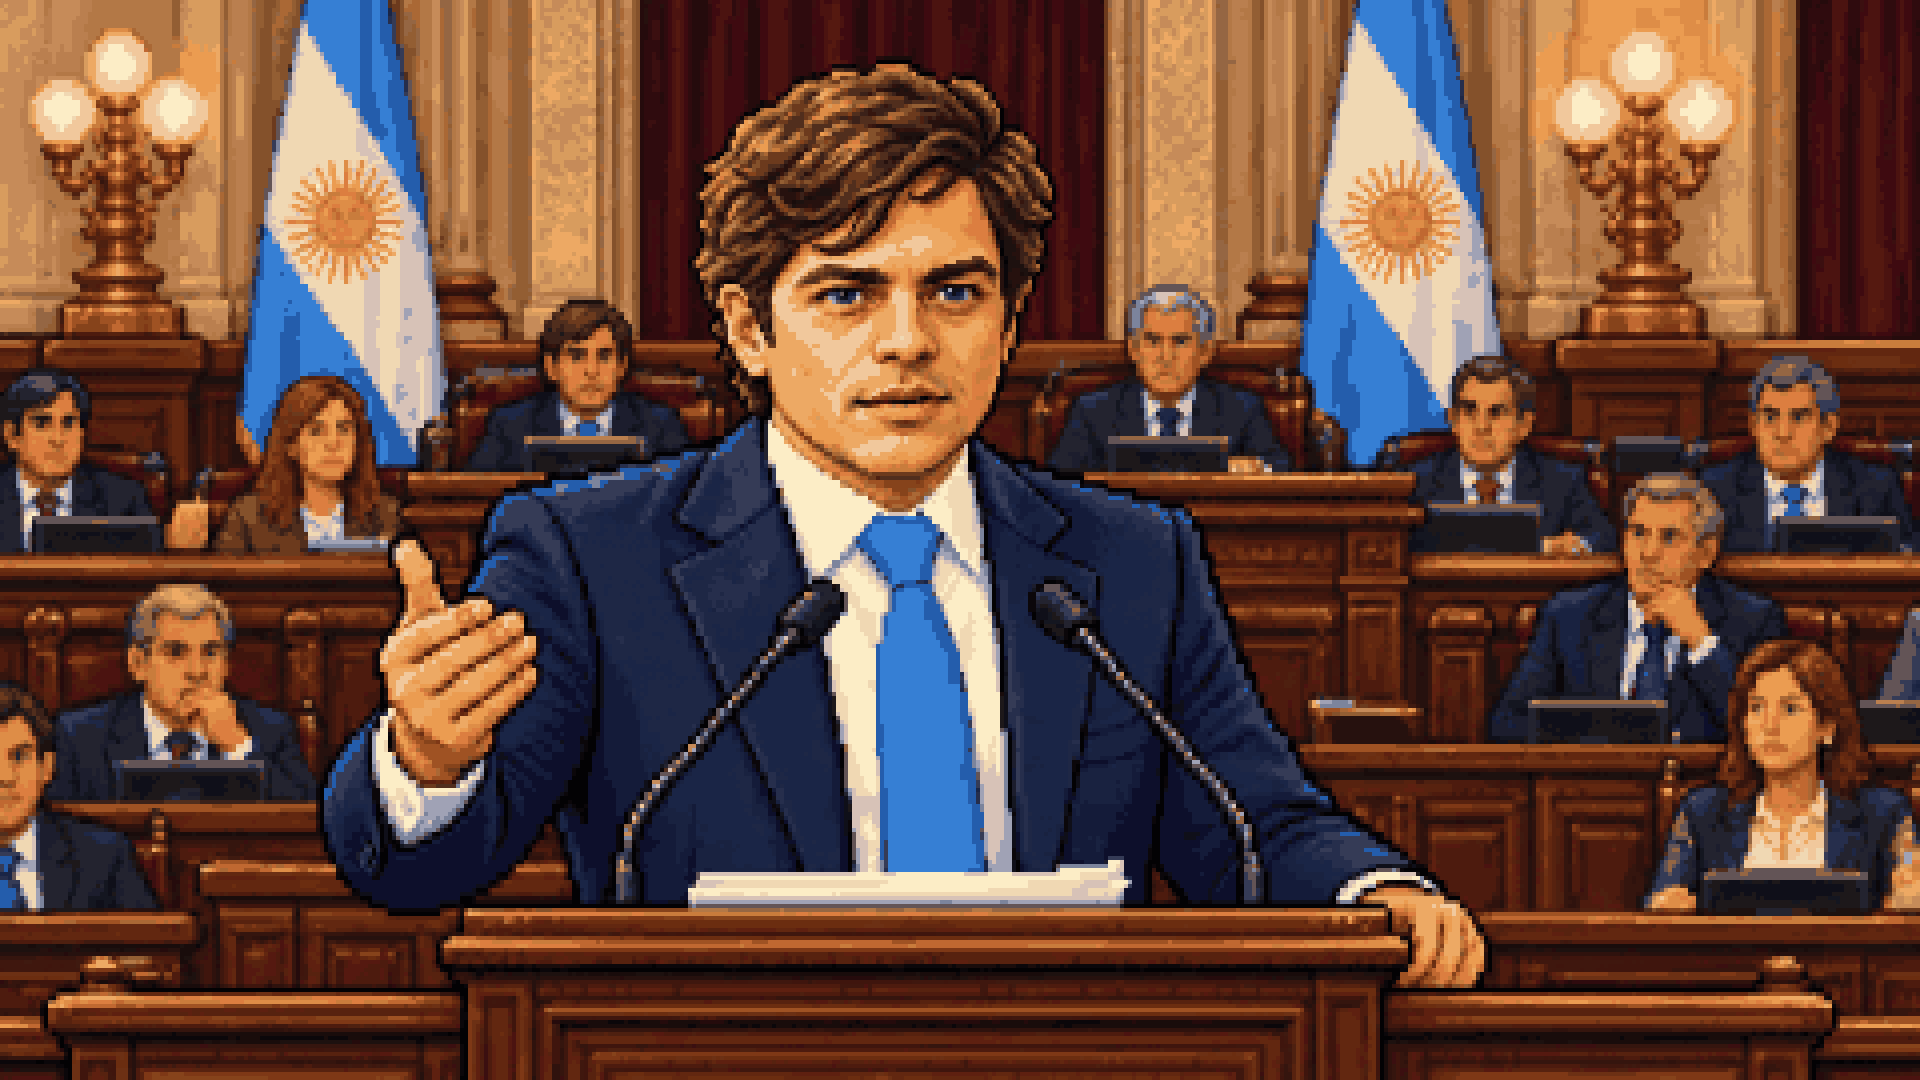
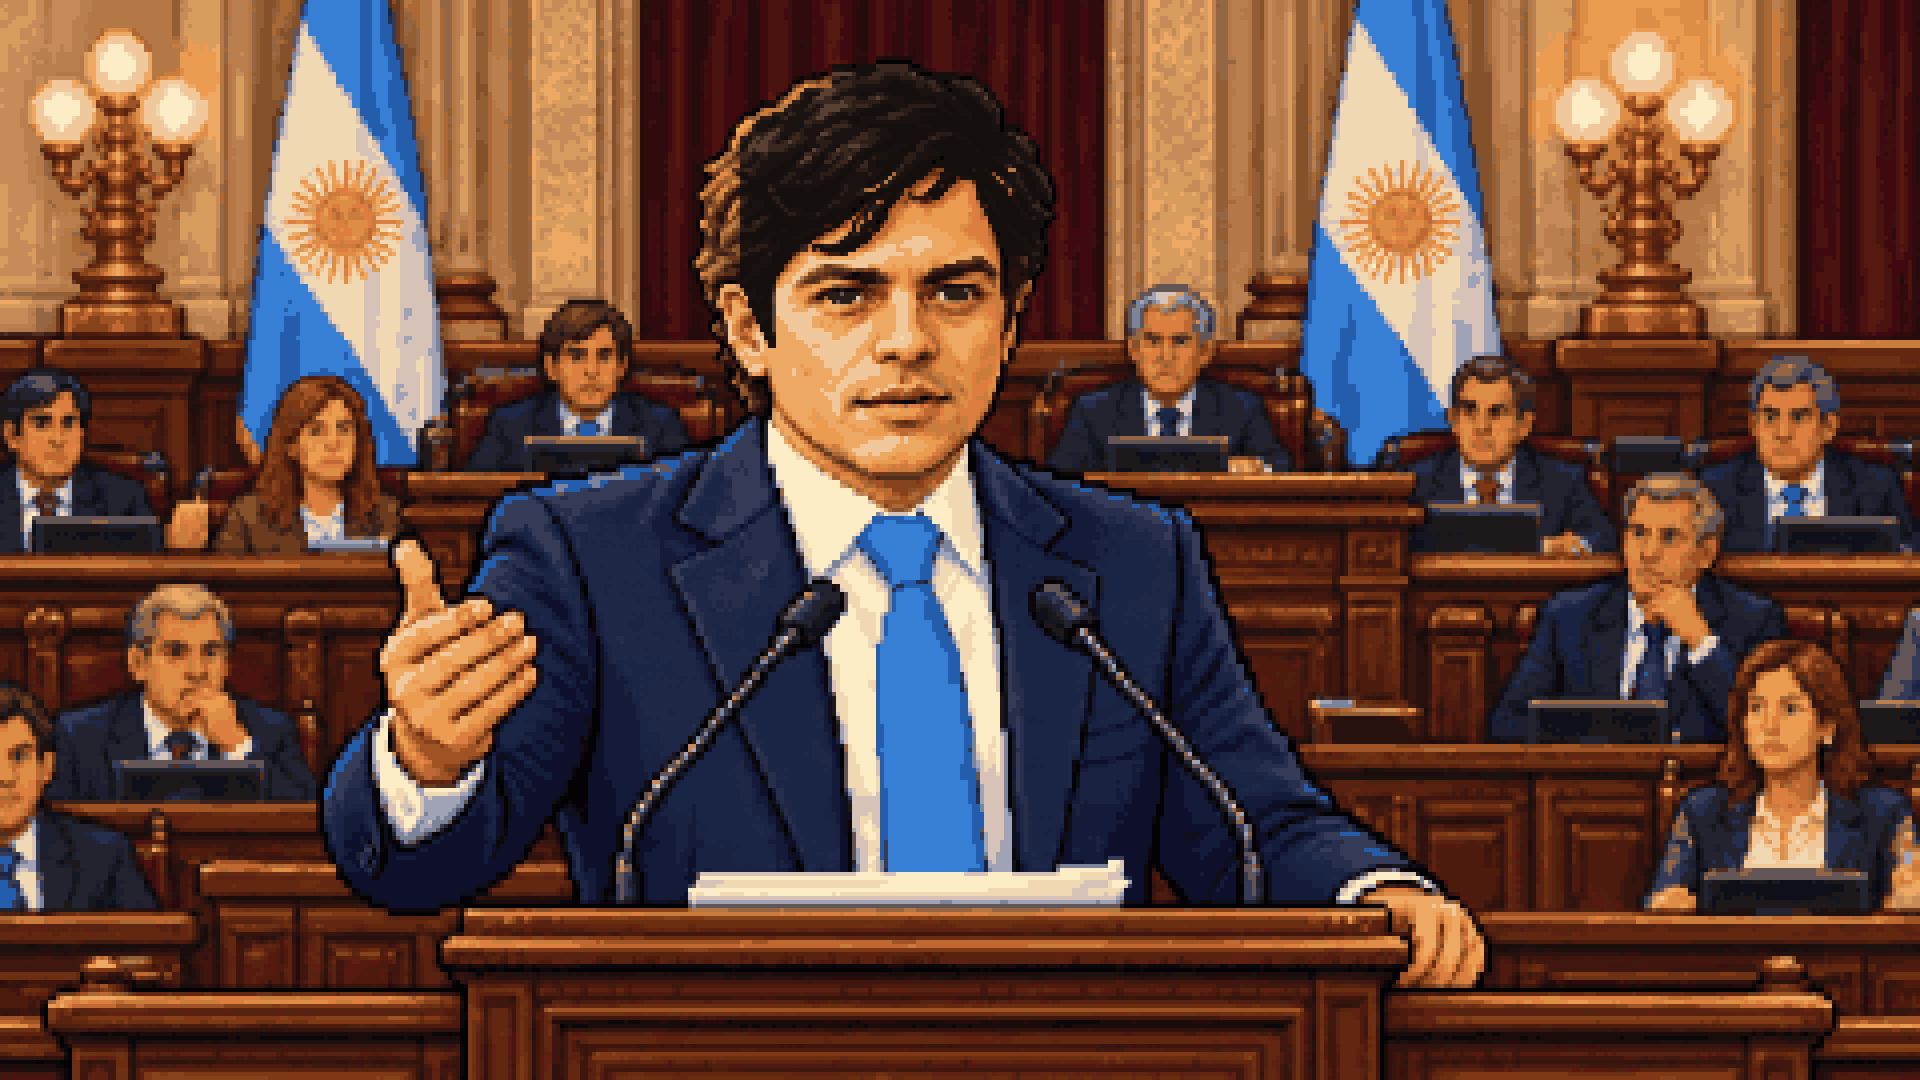
feat(art): make Kicillof portraits and scenes closer to likeness
Darken hair, add sideburns and dark eyes across portraits, scenes and
the diorama sprite; portraits switch to an open collar.

Changed region(s): [[0.375, 0.0611, 0.5625, 0.3056]]

diff --git a/docs/CLAUDE-HANDOFF.md b/docs/CLAUDE-HANDOFF.md
@@ -2,6 +2,16 @@
 
 Leer primero `CLAUDE.md`, después este archivo y `security_best_practices_report.md`.
 
+## 2026-11-22 — Kicillof likeness retouch
+
+- Kicillof art looked generic (light-brown hair, blue eyes). Retouched by hand-scripted pixel edits, no paid generation:
+  dark wavy hair, sideburns, dark eyes in `portrait_kicillof_{neutral,panic,victory}.webp` (portraits also drop the tie
+  for an open collar), `president_kicillof_{office,congress,press,diplomacy,crisis}.webp` and `cr_president_kicillof.webp`
+  (scenes and diorama keep tie/sash). Filenames unchanged, so `image-manifest.json` needs no change.
+- Re-running `scripts/pixel-art.py import` from new raws would overwrite these edits; any regeneration should prompt
+  for dark wavy hair, sideburns, dark eyes, open collar (`art/new-candidates.json`).
+- Verified locally: lint, type-check (web + engine), web 694 and engine 257 tests, web build.
+
 ## 2026-11-20 — Open findings closed
 
 - Stripe refunds: `charge.refunded` with `refunded: true` (full refund) looks up the checkout session
